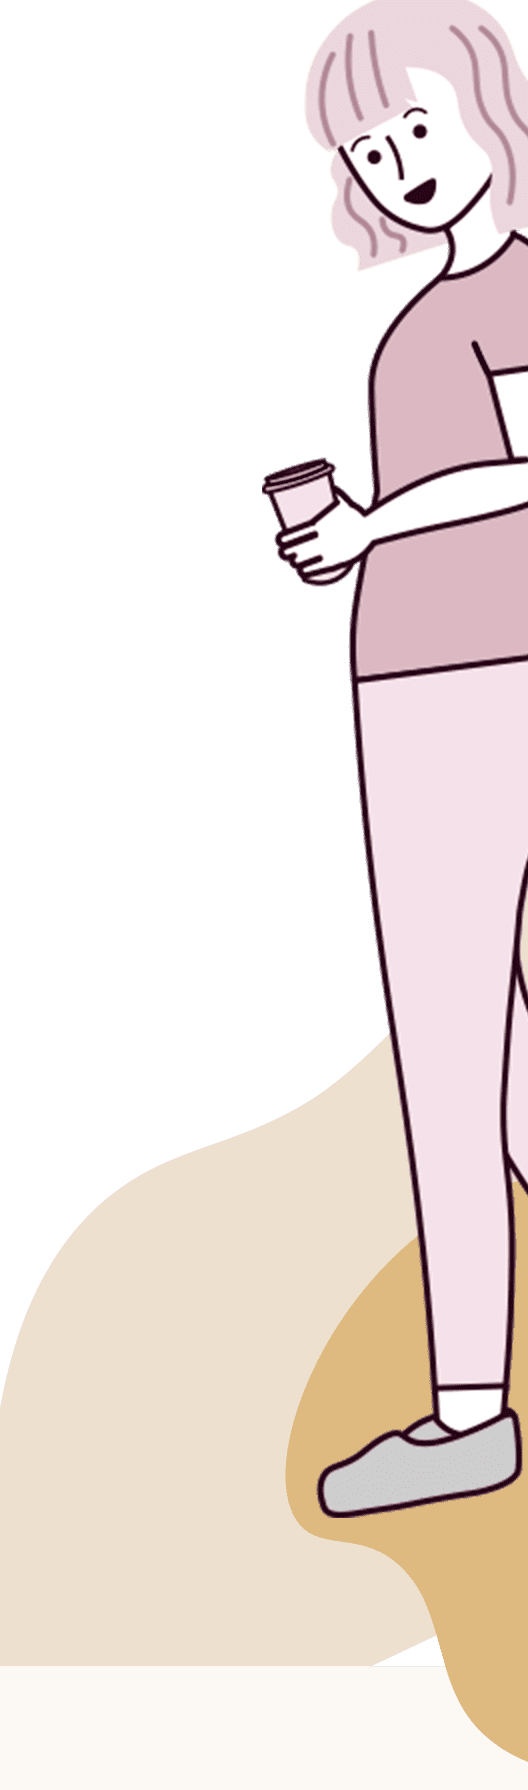
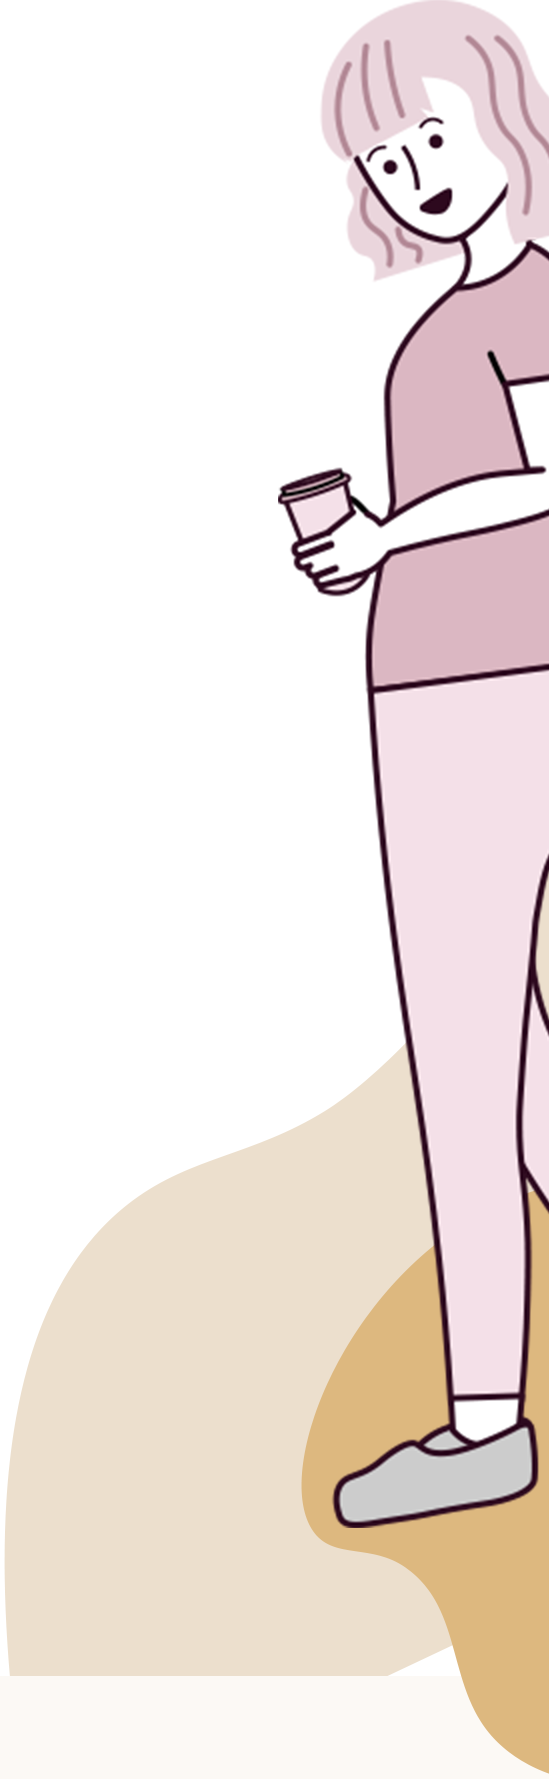
fixed

Changed region(s): [[0.0, 0.4637, 1.0, 1.0], [0.4848, 0.0, 1.0, 0.4637]]

diff --git a/assets/css/style.css b/assets/css/style.css
@@ -197,8 +197,8 @@ button:hover {
   }
   .wrap::after {
     right: 0;
-    top: 95px;
-    width: 140px;
+    top: 99px;
+    width: 145px;
     height: 500px;
     background-size: contain;
     background-image: url('../img/kv-girl-sp.png');
